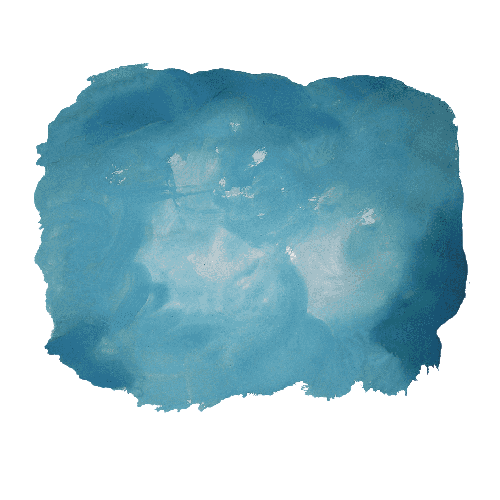
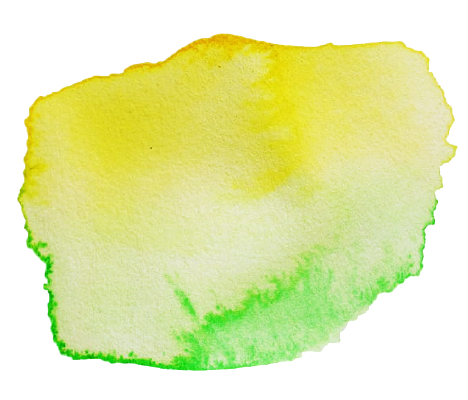
color modify

diff --git a/pal0/page/ResultScreen.js b/pal0/page/ResultScreen.js
@@ -16,6 +16,7 @@ export default function ResultScreen(props) {
   const [isModal,setModal] = useState(false);
   const [isreceived,setIsreceived] = useState(false);
   const [threeEmo,setThreeEmo] = useState([]);
+  const [threeColor,setThreecolor] = useState([]);
   const [totalMood,setTotalMood] = useState(null);
   const [moodComment,setMoodComment] = useState(null);
   const [music,setMusic] = useState([])
@@ -95,6 +96,7 @@ export default function ResultScreen(props) {
             encryptData(qrstring, key)
               .then(({ cipher, iv }) => {
                   console.log('Encrypted:', cipher)
+                  console.log(iv)
                   setqrvalue(cipher)
               })
               .catch(error => {
@@ -115,14 +117,13 @@ export default function ResultScreen(props) {
   }    // qr코드 모달 ~~~~
  
   const colorarr = [
-  require('../assets/img/color1.png'),
-  require('../assets/img/color2.png'),
-  require('../assets/img/color3.png'),
-  require('../assets/img/color4.png'),
-  require('../assets/img/color5.png'),
-  require('../assets/img/color6.png'),
-  require('../assets/img/color7.png'),]
-  let colorimg = [colorarr[0],colorarr[1],colorarr[2]];
+  require('../assets/img/color1.png'), //분노
+  require('../assets/img/color2.png'), //혐오
+  require('../assets/img/color3.png'), //두려움
+  require('../assets/img/color4.png'), //행복
+  require('../assets/img/color5_2.png'), //슬픔
+  require('../assets/img/color6_3.png'), //놀람
+  require('../assets/img/color7_2.png'),] //퍙범
   
 
   const goHome = () => {
@@ -137,34 +138,36 @@ export default function ResultScreen(props) {
         console.log(res.data)
         
         var emocolorarr = [];
+        var threecolorsrc = [];
         for(var i=0;i<3;i++){
+          console.log(i)
           switch(res.data.emotions[i][0]){
             case 0 :
-              colorimg[i] = colorarr[0]
+              threecolorsrc.push(colorarr[0])
               emocolorarr.push("분노")
               break;
             case 1 :
-              colorimg[i] = colorarr[1]
+              threecolorsrc.push(colorarr[1])
               emocolorarr.push("혐오")
               break;
             case 2 :
-              colorimg[i] = colorarr[2]
+              threecolorsrc.push(colorarr[2])
               emocolorarr.push("두려움")
               break;
             case 3 :
-              colorimg[i] = colorarr[3]
+              threecolorsrc.push(colorarr[3])
               emocolorarr.push("행복")
               break;
             case 4 :
-              colorimg[i] = colorarr[4]
+              threecolorsrc.push(colorarr[4])
               emocolorarr.push("슬픔")
               break;
             case 5 :
-              colorimg[i] = colorarr[5]
+              threecolorsrc.push(colorarr[5])
               emocolorarr.push("놀람")
               break;
             case 6 :
-              colorimg[i] = colorarr[6]
+              threecolorsrc.push(colorarr[6])
               emocolorarr.push("평범")
               break;
               
@@ -172,6 +175,7 @@ export default function ResultScreen(props) {
         }
         // console.log(emocolorarr)
         setThreeEmo(emocolorarr)
+        setThreecolor(threecolorsrc)
         setTotalMood(res.data.finalEmotion)         
         setMoodComment(res.data.comment)
         setchartData(res.data.statistic.idx)
@@ -243,7 +247,7 @@ export default function ResultScreen(props) {
             <View style={styles.maincolor}>
               <ImageBackground
               style={styles.imgs}
-              source={colorimg[0]} >
+              source={threeColor[0]} >
                 <Text style={styles.colortxt}>{threeEmo[0]}</Text>
               </ImageBackground>
             </View>
@@ -252,14 +256,14 @@ export default function ResultScreen(props) {
               <View style={styles.color}>
               <ImageBackground
                 style={styles.imgs}
-                source={colorimg[1]} >
+                source={threeColor[1]} >
                   <Text style={styles.colortxt}>{threeEmo[1]}</Text>
                 </ImageBackground>
               </View>
               <View style={styles.color}>
               <ImageBackground
                 style={styles.imgs}
-                source={colorimg[2]} >
+                source={threeColor[2]} >
                   <Text style={styles.colortxt}>{threeEmo[2]}</Text>
                 </ImageBackground>
               </View>
@@ -522,7 +526,7 @@ const styles = StyleSheet.create({
     // backgroundColor:'red'
   },
   maincolor:{
-    width:90,
+    width:250,
     alignItems:"center",
     justifyContent: 'center',
   },
@@ -531,7 +535,7 @@ const styles = StyleSheet.create({
   } ,
   imgs:{
     width:150,
-    height:130,
+    height:140,
     resizeMode:'stretch',
     alignItems:"center",
     justifyContent:"center",
